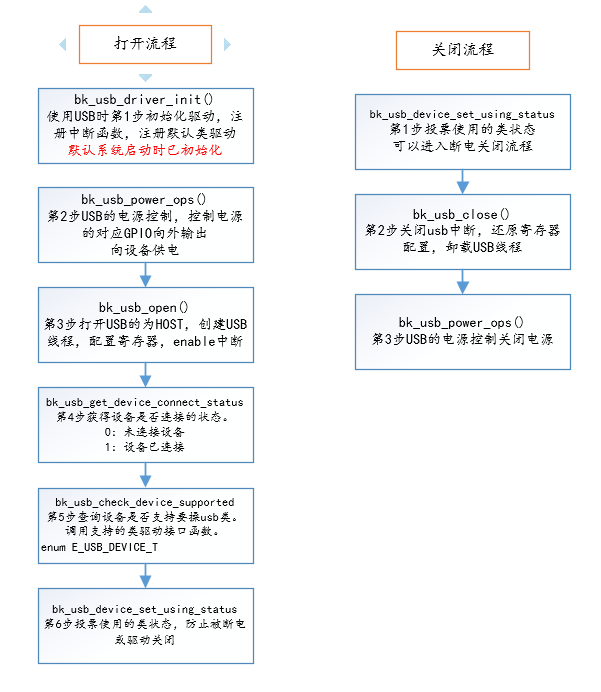
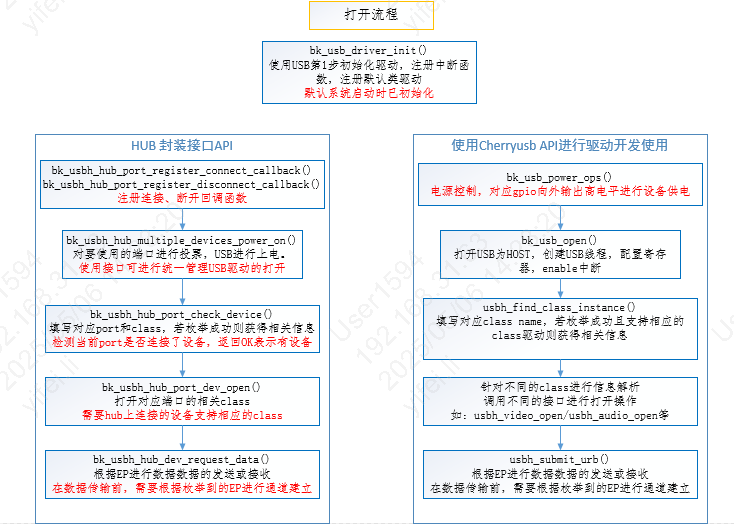
[CI] [58098]  <platform> <fix> Fix USB related error documentation

Changed region(s): [[0.03, 0.0, 0.9884, 1.0], [0.0899, 0.0303, 0.1498, 0.0909], [0.5691, 0.0, 0.599, 0.0606]]

diff --git a/docs/bk7258/zh_CN/api-reference/peripheral/bk_usb.rst b/docs/bk7258/zh_CN/api-reference/peripheral/bk_usb.rst
@@ -1,5 +1,5 @@
 USB
-================
+================================================================
 
 :link_to_translation:`en:[English]`
 
@@ -14,40 +14,69 @@ USB
 
 
 USB 简介
-------------------
+------------------------------------------------------------------------
 USB（Universal Serial Bus）是一种通用的总线标准，用于连接主机和外设设备。USB 主机可以通过 USB 接口与 USB 设备连接，实现数据传输、电源供给等功能。
 
-USB IF（USB Implementers Forum）是 USB 标准的制定者，它制定了 USB 标准，包括 USB 1.1、USB 2.0、USB 3.0 等，定义了 USB 接口的物理层、数据链路层、传输层、会话层、表示层等协议，以及 USB 设备类（Device Class）标准，常见的设备类包括 HID（Human Interface Device，人机接口设备）、MSC（Mass Storage Class，大容量存储设备）、CDC（Communication Device Class，通信设备）、Audio、Video 等。
+USB IF（USB Implementers Forum）是 USB 标准的制定者，它制定了 USB 标准，包括 USB 1.1、USB 2.0等，定义了 USB 接口的物理层、数据链路层、传输层、会话层、表示层等协议，以及 USB 设备类（Device Class）标准，常见的设备类包括 HID（Human Interface Device，人机接口设备）、MSC（Mass Storage Class，大容量存储设备）、CDC（Communication Device Class，通信设备）、Audio、Video 等。
 
 博通BK7258芯片内置 USB 外设，支持各种各样的 USB 应用，包括 USB 多媒体类应用，USB 通信类应用，USB 存储类应用，USB 人机交互类应用等。
 
+默认支持的驱动包括HUB、 UVC(USB Video Class)、UAC(USB Audio Class),其他类的驱动需要打开相应的宏开关进行编译加载。
+
+
+USB 相关宏定义
+------------------------------------------------------------------------
+
+CONFIG_USB=y  打开USB的总开关宏定义 使能USB的代码功能
+
+CONFIG_USB_VBAT_CONTROL_GPIO_ID=0x1C  默认使用的GPIO是GPIO_28进行USB Vbus电的控制，用户根据自己的实际情况进行配置
+
+CONFIG_CHERRY_USB=y  默认使用的CherryUSB的开源代码，用户可根据实际情况进行版本的更新
+
+CONFIG_USB_HOST   主程序作为HOST 对连接上的设备进行设备枚举
+
+CONFIG_USB_DEVICE 主程序作为DEVICE 连接到HOST被枚举
+
+CONFIG_TASK_USB_PRIO 设置USB Driver处理线程的优先级
+
+CONFIG_USB_HUB_MULTIPLE_DEVICES 在Host模式下，支持HUB的驱动，以及支持HUB 统一接口的操作。注意最多支持1个HUB的连接
+
+CONFIG_USBHOST_HUB_MAX_EHPORTS=4 默认最多支持4个port 接口的HUB操作
+
+CONFIG_USBHOST_HUB_PORT_SUPPORT_MAX_DEVICE=5 默认每个接口支持5种class设备的连接
+
+CONFIG_USB_UVC 支持USB Vidoe Class的HOST驱动
+
+CONFIG_USB_UAC 支持USB Audio Class的HOST驱动
+
+
 USB 基本使用
-------------------
+------------------------------------------------------------------------
 
 .. figure:: ../../../../common/_static/usb/usb_open_close.png
     :align: center
     :alt: usb open close 
     :figclass: align-center
 
-    USB open/close
+    USB open
 
 USB 测试示例
-------------------
+------------------------------------------------------------------------
 
-注：BK7258 USB 默认运行在CPU2，使用默认avdk调试需要连接UART2协助输入命令测试，依赖CLI命令打开编译后调试。 测试目标：USB模块开关正常，枚举正常，解析正常，断开/连接等状态记录正常。
+注：BK7258 USB 默认运行在CPU1， 测试目标：USB模块开关正常，枚举正常，解析正常，断开/连接等状态记录正常。
 
-作为HOST 识别枚举Video+Audio融合设备为例，输入命令和LOG信息如下图所示：
+作为HOST 识别枚举U盘为例，输入命令和LOG信息如下图所示：
 
-1、在默认串口输入 bootcore 2 1 启动CPU2 ，log如下
+1、默认串口输入 bootcore 1 1 启动CPU1 ，log如下
 
-.. figure:: ../../../../common/_static/usb/cli_boot_cpu2.png
+.. figure:: ../../../../common/_static/usb/cli_boot_cpu1.png
     :align: center
-    :alt: usb open close 
+    :alt: boot core1 
     :figclass: align-center
 
-    CLI Boot CPU2
+    CLI Boot CPU1
 
-2、uart2 串口输入usb power 1c 1，log如下
+2、默认串口输入cpu1 usb power 1c 1，log如下
 
 .. figure:: ../../../../common/_static/usb/cli_usb_power_on.png
     :align: center
@@ -56,7 +85,7 @@ USB 测试示例
 
     CLI USB PowerON
 
-3、uart2 串口输入usb open_host，枚举成功log如下
+3、默认串口输入cpu1 usb open_host，枚举成功log如下
 
 .. figure:: ../../../../common/_static/usb/cli_usb_open_host.png
     :align: center
@@ -65,39 +94,43 @@ USB 测试示例
 
     CLI USB Open Host
 
-4、uart2 串口输入usb check_dev 0(是否支持video)/usb check_dev 1(是否支持mic)/usb check_dev 2(是否支持speaker)，支持需要的类设备log如下
+4、默认串口输入cpu1 usb close,log如下
 
 .. figure:: ../../../../common/_static/usb/cli_usb_check_support_dev.png
     :align: center
     :alt: usb open_host
     :figclass: align-center
 
-    CLI USB Check video/mic/speaker
+    CLI USB Close
 
-5、uart2 串口输入usb close,log如下
+5、默认串口输入cpu1 usb power 1c 0,log如下
 
 .. figure:: ../../../../common/_static/usb/cli_usb_close.png
     :align: center
     :alt: usb open_host
     :figclass: align-center
 
-    CLI USB Close
+    CLI USB PowerDown
 
-6、uart2 串口输入usb power 1c 0,log如下
+USB HUB 端口数量和设备枚举信息调整的memory size
+------------------------------------------------------------------------
+
+若设备出现超过1024bytes的枚举信息，则需要对默认配置进行调整
+使用hub时，需要根据设备情况对port 数据量进行配置
 
 .. figure:: ../../../../common/_static/usb/cli_usb_power_down.png
     :align: center
-    :alt: usb open_host
+    :alt: usb hub
     :figclass: align-center
 
-    CLI USB PowerDown
+    USB HUB
 
 
 USB API Status
-------------------
+------------------------------------------------------------------------
 
 +---------------------------------------------+-------------+
-| API                                         | BK7258_cp2  |
+| API                                         | BK7258_cp1  |
 +=============================================+=============+
 | :cpp:func:`bk_usb_driver_init`              | Y           |
 +---------------------------------------------+-------------+
@@ -109,12 +142,6 @@ USB API Status
 +---------------------------------------------+-------------+
 | :cpp:func:`bk_usb_close`                    | Y           |
 +---------------------------------------------+-------------+
-| :cpp:func:`bk_usb_control_transfer_init`    | Y           |
-+---------------------------------------------+-------------+
-| :cpp:func:`bk_usb_control_transfer_deinit`  | Y           |
-+---------------------------------------------+-------------+
-| :cpp:func:`bk_usb_control_transfer`         | Y           |
-+---------------------------------------------+-------------+
 | :cpp:func:`bk_usb_device_set_using_status`  | Y           |
 +---------------------------------------------+-------------+
 | :cpp:func:`bk_usb_get_device_connect_status`| Y           |
@@ -123,7 +150,7 @@ USB API Status
 +---------------------------------------------+-------------+
 
 USB Port Number
-------------------------
+------------------------------------------------------------------------------
 
 +-------------+--------+------------+-----------+
 | Capability  | BK7258 | BK7258_cp1 | BK7258_cp2|
@@ -132,7 +159,7 @@ USB Port Number
 +-------------+--------+------------+-----------+
 
 USB Pin and GPIO Map
----------------------------------
+---------------------------------------------------------------------
 
 +----------+--------+-----------+-----------+
 | USB Pin  | BK7258 | BK7258_cp1| BK7258_cp2|
@@ -141,12 +168,12 @@ USB Pin and GPIO Map
 +----------+--------+-----------+-----------+
 
 USB API Reference
----------------------
+---------------------------------------------------------------------------
 
 .. include:: ../../_build/inc/usb.inc
 
 USB API Typedefs
----------------------
+---------------------------------------------------------------------------
 
 .. include:: ../../_build/inc/usb_types.inc
 
